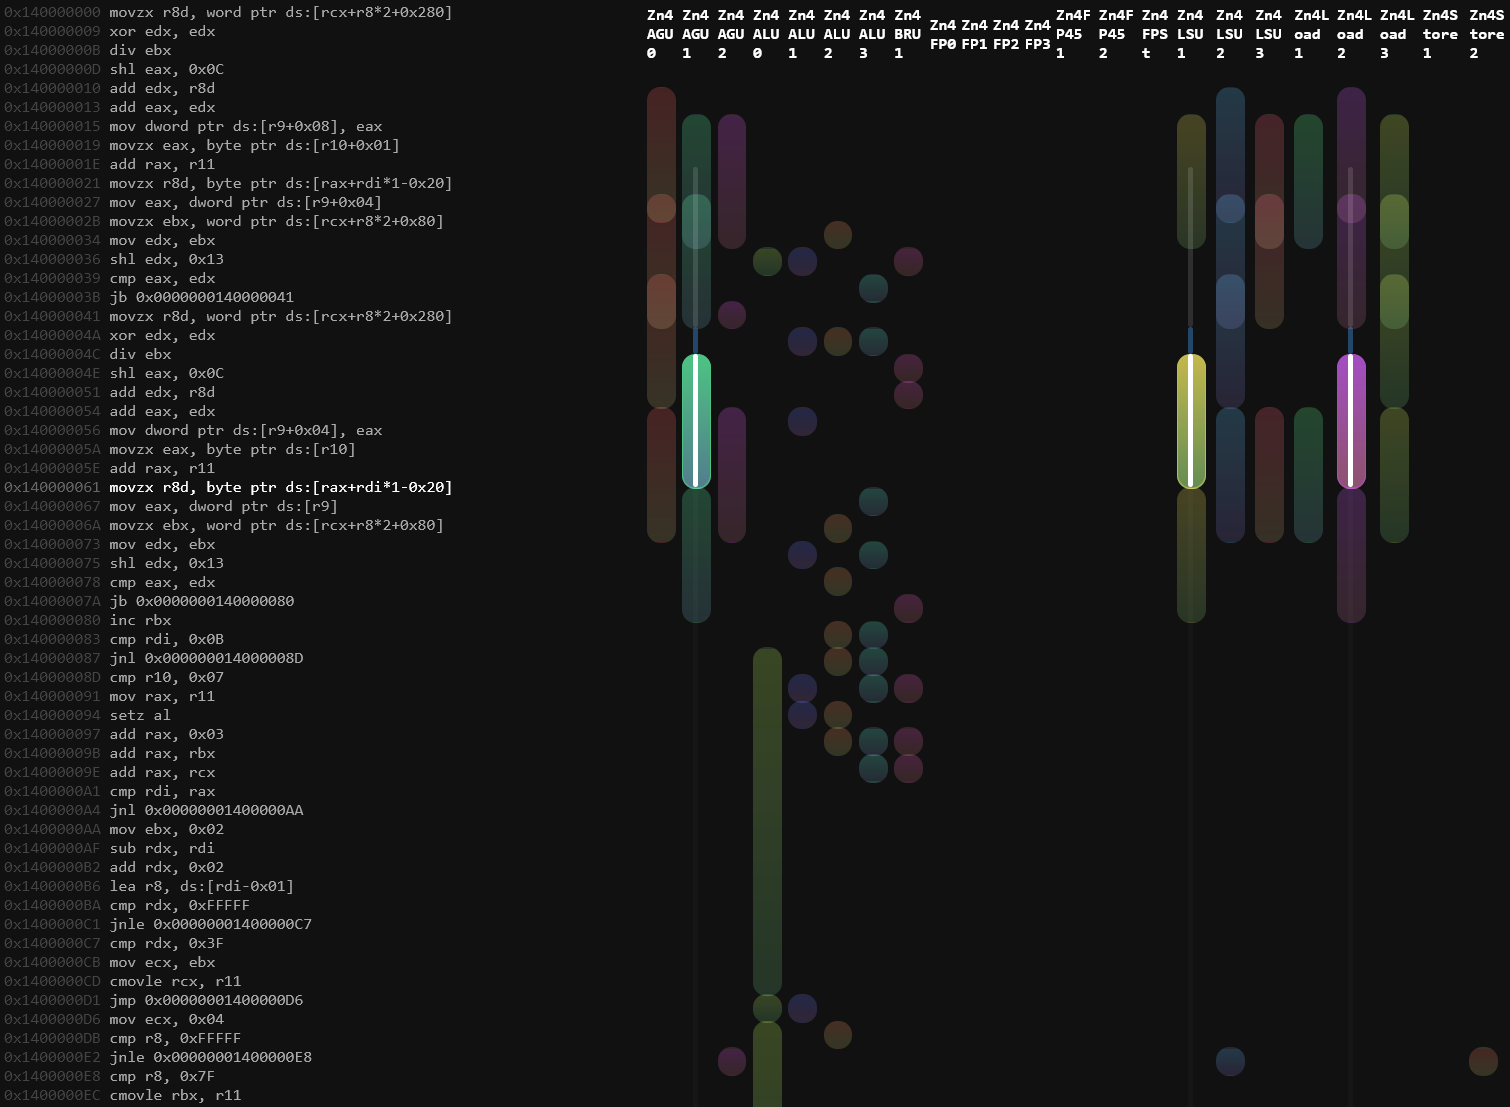
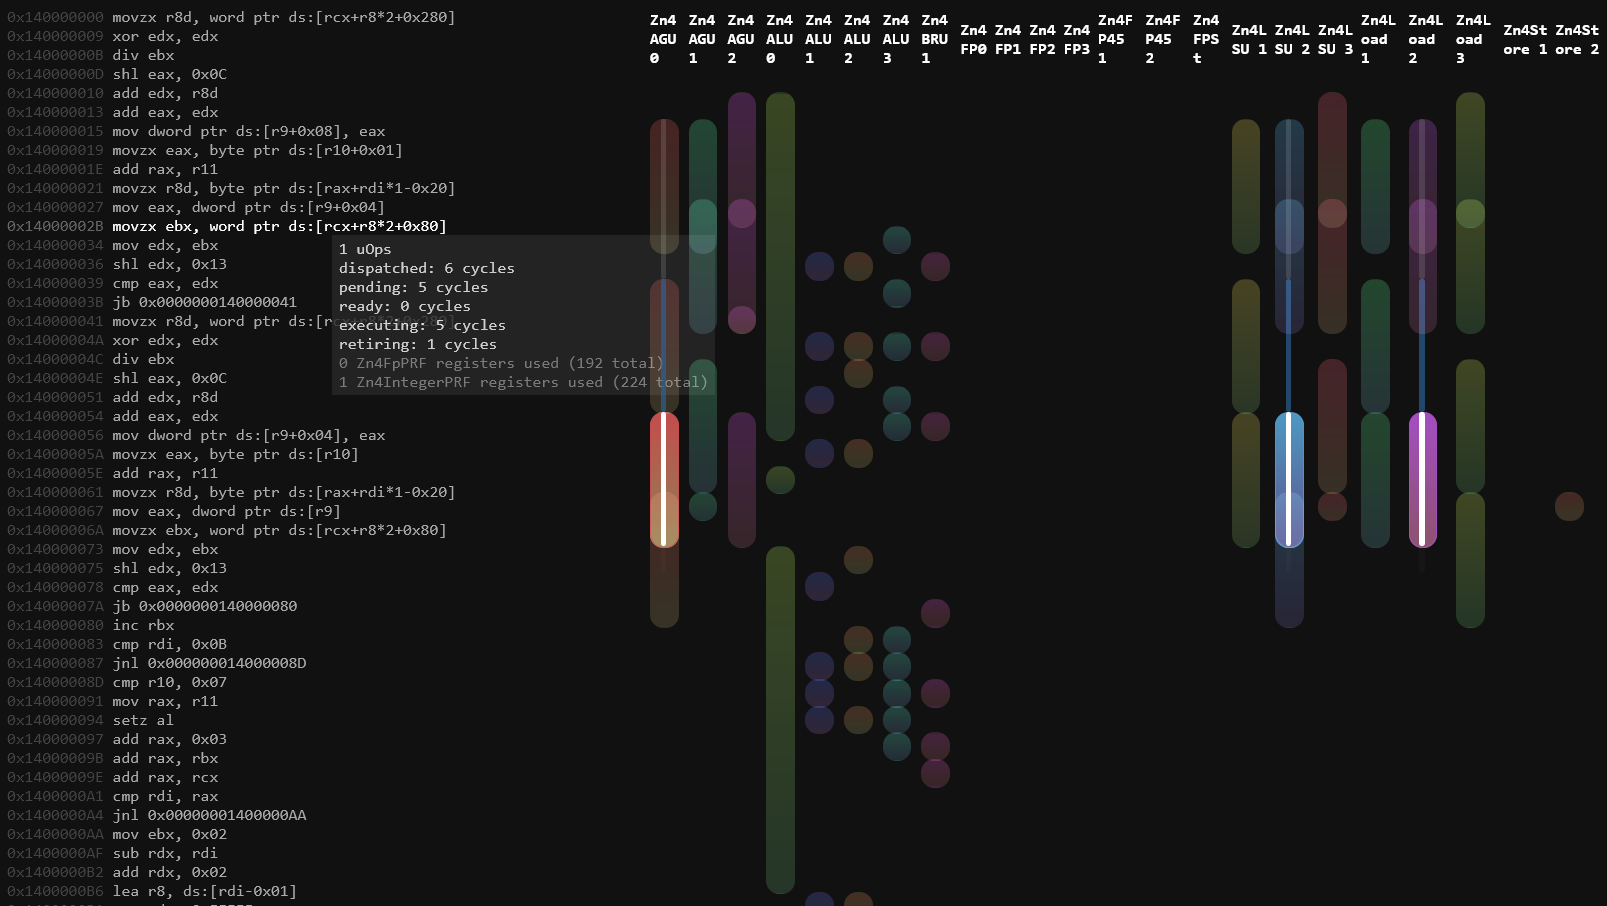
Adding more info, ability to specify iteration

diff --git a/execution-flow-html/src/execution-flow-html.cpp b/execution-flow-html/src/execution-flow-html.cpp
@@ -87,7 +87,7 @@ int main(int argc, char **pArgv)
 
   // Create flow.
   PortUsageFlow flow;
-  const bool result = execution_flow_create(pData, fileSize, &flow);
+  const bool result = execution_flow_create(pData, fileSize, &flow, 0);
 
   if (!result)
     puts("Failed to create port usage flow correctly. This could mean that the provided file wasn't valid.");
@@ -210,6 +210,14 @@ int main(int argc, char **pArgv)
             span.asm {
               color: #aaa;
             }
+
+            span.linenum.highlighted {
+              color: #996b66;
+            }
+
+            span.asm.highlighted {
+              color: #ffcaca;
+            }
             
             div.disasmline.selected span.linenum {
                 color: #666;
@@ -217,6 +225,35 @@ int main(int argc, char **pArgv)
             
             div.disasmline.selected span.asm {
                 color: #fff;
+            }
+
+            div.disasmline.selected span.linenum.highlighted {
+              color: #d96054;
+            }
+
+            div.disasmline.selected span.asm.highlighted {
+              color: #fff;
+            }
+
+            div.extra_info {
+              display: block;
+              position: absolute;
+              left: 250pt;
+              background: #272727;
+              padding: 3pt 5pt;
+              opacity: 0%;
+            }
+
+            div.disasmline.selected div.extra_info {
+              opacity: 80%;
+            }
+
+            .bottleneck {
+              color: #ff7171;
+            }
+
+            .registers {
+              color: #959595;
             }
         </style>
         <div class="main">
@@ -250,7 +287,26 @@ int main(int argc, char **pArgv)
         FATAL_IF(!(ZYAN_SUCCESS(ZydisDecoderDecodeFull(&decoder, pData + virtualAddress, fileSize - virtualAddress, &instruction, operands))), "Invalid Instruction at 0x%" PRIX64 ".", virtualAddress);
         FATAL_IF(!ZYAN_SUCCESS(ZydisFormatterFormatInstruction(&formatter, &instruction, operands, sizeof(operands) / sizeof(operands[0]), disasmBuffer, sizeof(disasmBuffer), virtualAddress + addressDisplayOffset, nullptr)), "Failed to Format Instruction at 0x%" PRIX64 ".", virtualAddress);
 
-        fprintf(pOutFile, "<div class=\"disasmline\" idx=\"%" PRIu64 "\"><span class=\"linenum\">0x%08" PRIX64 "&emsp;</span><span class=\"asm\">%s&emsp;</span></div>\n", instructionIndex, virtualAddress + addressDisplayOffset, disasmBuffer);
+        const auto &instructionInfo = flow.instructionExecutionInfo[instructionIndex];
+
+        const char *subVariant = instructionInfo.bottleneckInfo.size() > 0 ? " highlighted" : "";
+
+        fprintf(pOutFile, "<div class=\"disasmline\" idx=\"%" PRIu64 "\"><span class=\"linenum%s\">0x%08" PRIX64 "&emsp;</span><span class=\"asm%s\">%s&emsp;</span><div class=\"extra_info\">", instructionIndex, subVariant, virtualAddress + addressDisplayOffset, subVariant, disasmBuffer);
+
+        fprintf(pOutFile, "<div class=\"uops\">%" PRIu64 " uOps</div>", instructionInfo.uOpCount);
+        fprintf(pOutFile, "<div class=\"cycleInfo\">dispatched: %" PRIu64 " cycles</div>", instructionInfo.clockPending - instructionInfo.clockDispatched);
+        fprintf(pOutFile, "<div class=\"cycleInfo\">pending: %" PRIu64 " cycles</div>", instructionInfo.clockReady - instructionInfo.clockPending);
+        fprintf(pOutFile, "<div class=\"cycleInfo\">ready: %" PRIu64 " cycles</div>", instructionInfo.clockIssued - instructionInfo.clockReady);
+        fprintf(pOutFile, "<div class=\"cycleInfo\">executing: %" PRIu64 " cycles</div>", instructionInfo.clockExecuted - instructionInfo.clockIssued);
+        fprintf(pOutFile, "<div class=\"cycleInfo\">retiring: %" PRIu64 " cycles</div>", instructionInfo.clockRetired - instructionInfo.clockExecuted);
+
+        for (size_t j = 0; j < instructionInfo.physicalRegistersObstructedPerRegisterType.size(); j++)
+          fprintf(pOutFile, "<div class=\"registers\">%" PRIu64 " %s registers used (%" PRIu64 " total)</div>", instructionInfo.physicalRegistersObstructedPerRegisterType[j], flow.hardwareRegisters[j].registerTypeName.c_str(), flow.hardwareRegisters[j].count);
+
+        for (const auto &_b : instructionInfo.bottleneckInfo)
+          fprintf(pOutFile, "<div class=\"bottleneck\">%s</div>", _b.c_str());
+
+        fputs("</div></div>\n", pOutFile);
 
         virtualAddress += instruction.length;
       }

diff --git a/execution-flow/src/execution-flow.cpp b/execution-flow/src/execution-flow.cpp
@@ -89,7 +89,7 @@ public:
 
 #pragma optimize ("", off)
 
-bool execution_flow_create(const void *pAssembledBytes, const size_t assembledBytesLength, PortUsageFlow *pFlow)
+bool execution_flow_create(const void *pAssembledBytes, const size_t assembledBytesLength, PortUsageFlow *pFlow, const size_t relevantIteration)
 {
   if (pFlow == nullptr)
     return false;
@@ -195,7 +195,7 @@ bool execution_flow_create(const void *pAssembledBytes, const size_t assembledBy
   }
 
   // Create source for the `Pipeline` & `HWEventListener`.
-  llvm::mca::CircularSourceMgr source(mcaInstructions, 1);
+  llvm::mca::CircularSourceMgr source(mcaInstructions, relevantIteration + 1);
 
   // Create custom behaviour.
   std::unique_ptr<llvm::mca::CustomBehaviour> customBehaviour(pTarget->createCustomBehaviour(*subtargetInfo, source, *instructionInfo));
@@ -213,7 +213,7 @@ bool execution_flow_create(const void *pAssembledBytes, const size_t assembledBy
   std::unique_ptr<llvm::mca::Pipeline> pipeline(mcaContext.createDefaultPipeline(pipelineOptions, source, *customBehaviour));
 
   // Create event handler to observe simulated hardware events.
-  FlowView flowView(&flow, 0);
+  FlowView flowView(&flow, relevantIteration);
   pipeline->addEventListener(&flowView);
 
   // Get Stages from Scheduler model.

diff --git a/execution-flow/include/execution-flow.h b/execution-flow/include/execution-flow.h
@@ -100,6 +100,6 @@ struct PortUsageFlow
 
 ////////////////////////////////////////////////////////////////////////////////
 
-bool execution_flow_create(const void *pAssembledBytes, const size_t assembledBytesLength, PortUsageFlow *pFlow);
+bool execution_flow_create(const void *pAssembledBytes, const size_t assembledBytesLength, PortUsageFlow *pFlow, const size_t relevantIteration);
 
 #endif // execution_flow_h__
